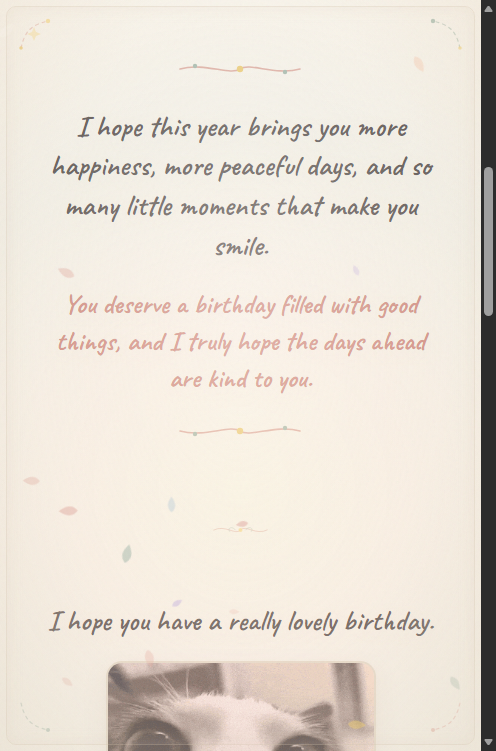
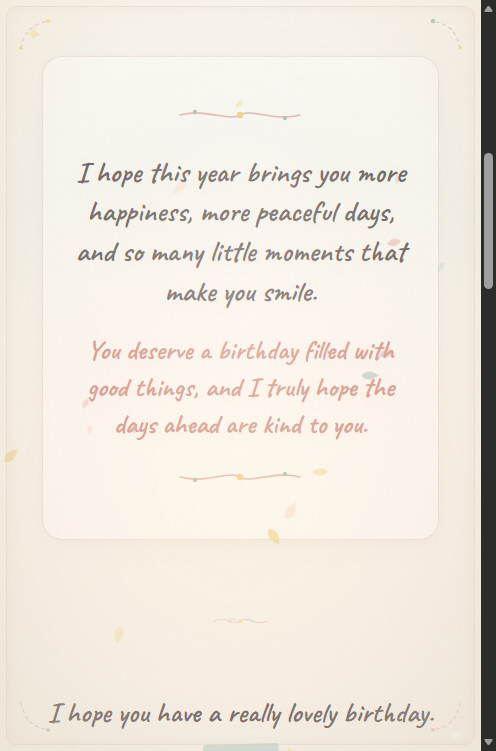
Remove wish tags under GIFs and enable scroll strictly after bloom and text finish

diff --git a/index.html b/index.html
@@ -13,7 +13,7 @@
   <link rel="preconnect" href="https://fonts.gstatic.com" crossorigin>
   <link href="https://fonts.googleapis.com/css2?family=Caveat:wght@500;600;700&family=Patrick+Hand&family=Plus+Jakarta+Sans:wght@400;500;600;700&display=swap" rel="stylesheet">
   
-  <link rel="stylesheet" href="style.css?v=20260816_sweet_ui_v1">
+  <link rel="stylesheet" href="style.css?v=20260816_scroll_after_bloom_v1">
 </head>
 <body>
 
@@ -461,9 +461,6 @@
           <div class="moment-media-wrap">
             <img src="assets/cats/cat1_stare.gif?t=2026081601" alt="Cat staring nonchalantly" class="meme-gif" loading="eager" decoding="async">
           </div>
-          <div class="polaroid-caption">
-            <span class="caption-text">✨ wish #1 · sweetest smiles</span>
-          </div>
         </div>
       </div>
     </section>
@@ -476,9 +473,6 @@
           <div class="washi-tape washi-peach" aria-hidden="true"></div>
           <div class="moment-media-wrap">
             <img src="assets/cats/cat2_leaf.gif?t=2026081602" alt="Calm cat with leaf" class="meme-gif" loading="eager" decoding="async">
-          </div>
-          <div class="polaroid-caption">
-            <span class="caption-text">🍃 wish #2 · peaceful days</span>
           </div>
         </div>
       </div>
@@ -493,9 +487,6 @@
           <div class="moment-media-wrap">
             <img src="assets/cats/cat3_hug.gif?t=2026081602" alt="Cats hugging" class="meme-gif" loading="eager" decoding="async">
           </div>
-          <div class="polaroid-caption">
-            <span class="caption-text">🤍 wish #3 · cozy hugs</span>
-          </div>
         </div>
       </div>
     </section>
@@ -508,9 +499,6 @@
           <div class="washi-tape washi-gold" aria-hidden="true"></div>
           <div class="moment-media-wrap">
             <img src="assets/cats/cat4_pat.gif?t=2026081605" alt="Cat being patted gently on head" class="meme-gif" loading="eager" decoding="async">
-          </div>
-          <div class="polaroid-caption">
-            <span class="caption-text">🐾 wish #4 · gentle pats</span>
           </div>
         </div>
       </div>
@@ -544,6 +532,6 @@
   <!-- Particle Burst Layer -->
   <div class="burst-layer" id="burstLayer" aria-hidden="true"></div>
 
-  <script src="app.js?v=20260816_sweet_ui_v1"></script>
+  <script src="app.js?v=20260816_scroll_after_bloom_v1"></script>
 </body>
 </html>

diff --git a/style.css b/style.css
@@ -59,11 +59,29 @@ html {
 
 body {
   width: 100%;
-  min-height: 100vh;
   background-color: var(--bg-paper);
   color: var(--ink-primary);
   font-family: var(--font-ui);
   -webkit-overflow-scrolling: touch;
+}
+
+/* Scroll-Lock: Locked until flower bloom & centerpiece text finish */
+html:not(.scroll-ready),
+body:not(.scroll-ready) {
+  overflow: hidden !important;
+  height: 100vh !important;
+  max-height: 100vh !important;
+  touch-action: none;
+}
+
+html.scroll-ready,
+body.scroll-ready {
+  overflow-y: auto !important;
+  overflow-x: hidden !important;
+  min-height: 100vh;
+  height: auto !important;
+  touch-action: auto;
+  scroll-behavior: smooth;
 }
 
 /* ==========================================================================
@@ -760,19 +778,6 @@ body.phase-settle .bloom-meadow-canvas {
   height: 100%;
   object-fit: cover;
   display: block;
-}
-
-.polaroid-caption {
-  margin-top: 0.65rem;
-  text-align: center;
-}
-
-.caption-text {
-  font-family: var(--font-handwritten);
-  font-size: 1.25rem;
-  font-weight: 600;
-  color: var(--ink-soft);
-  letter-spacing: 0.02em;
 }
 
 /* ==========================================================================

diff --git a/app.js b/app.js
@@ -222,9 +222,11 @@
     // Phase 9: Garden settles with gentle breeze (3.6s)
     setTimeout(() => { document.body.classList.add('phase-settle'); }, 3600);
 
-    // Phase 10: Centerpiece headline text reveals (4.0s)
+    // Phase 10: Centerpiece headline text reveals & scrolling is enabled (4.0s)
     setTimeout(() => {
       document.body.classList.add('bloomed');
+      document.documentElement.classList.add('scroll-ready');
+      document.body.classList.add('scroll-ready');
       if (bloomCenterMessage) {
         bloomCenterMessage.classList.add('active');
       }
